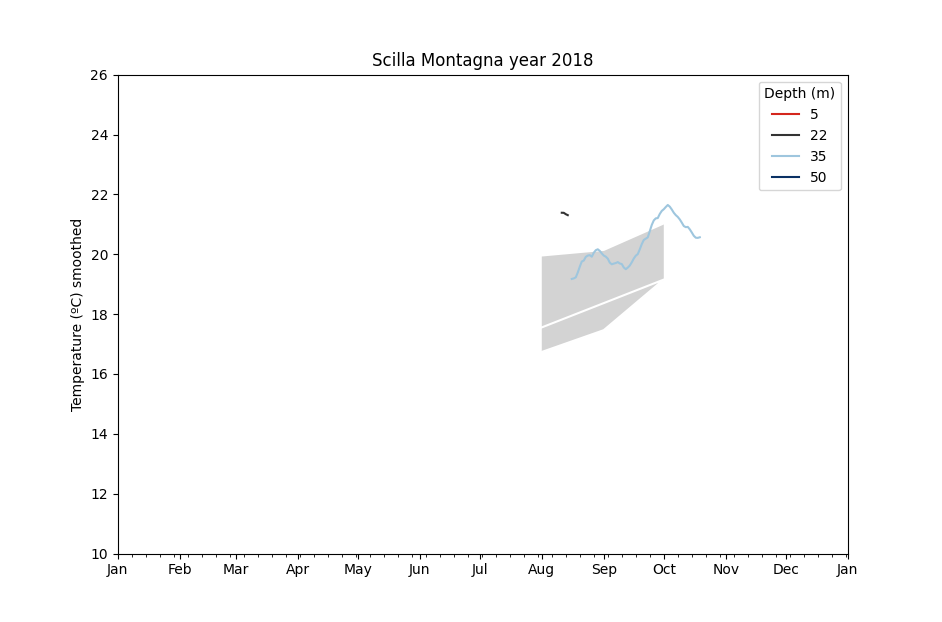
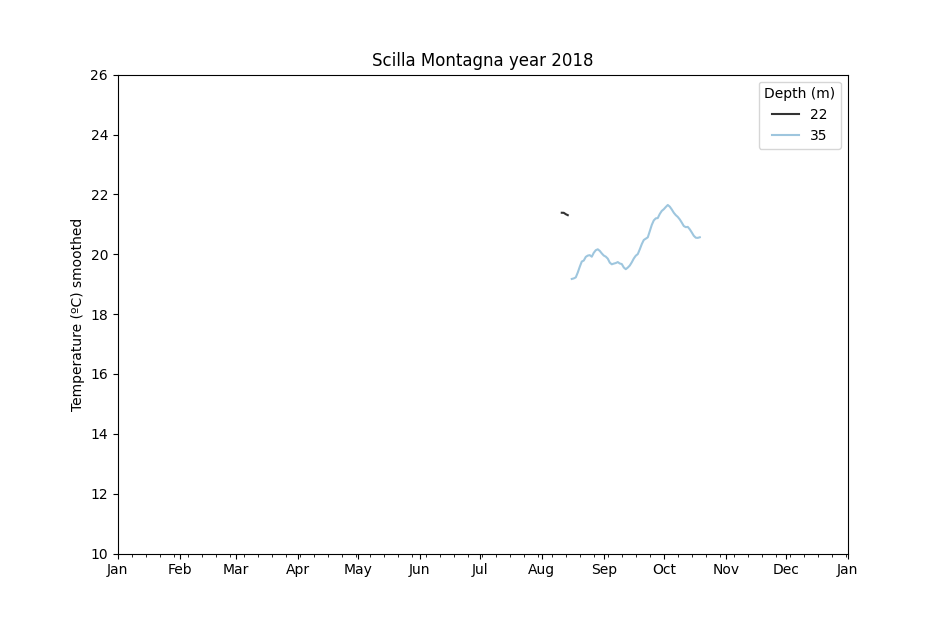
Added small if to check if there are empty depths on annual T cycles and delete them to not let them be plotted as legend.

Changed region(s): [[0.5541, 0.3666, 0.7081, 0.5804], [0.8312, 0.1833, 0.8928, 0.3055]]

diff --git a/tmednetGUI/user_interaction.py b/tmednetGUI/user_interaction.py
@@ -898,6 +898,10 @@ class tmednet(tk.Frame):
         color_dict = {'5': '#d4261d', '10': '#f58e6e', '15': '#fca95a', '20': '#fde5a3', '25': '#e4f4f8',
                       '30': '#a7d6e7',
                       '35': '#9ec6de', '40': '#3a6daf', '45': '#214f8a', '50': '#0a3164'}
+        # Checks if there is empty depths to delete them and make them not show on the legend
+        for depth in newdf.columns:
+            if newdf[depth].isnull().all():
+                del newdf[depth]
         newdf.plot(ax=self.plot, zorder=10, color=[color_dict.get(x, '#333333') for x in newdf.columns])
         if str(minyear) != year:
             for depth in histdf['depth'].unique():
